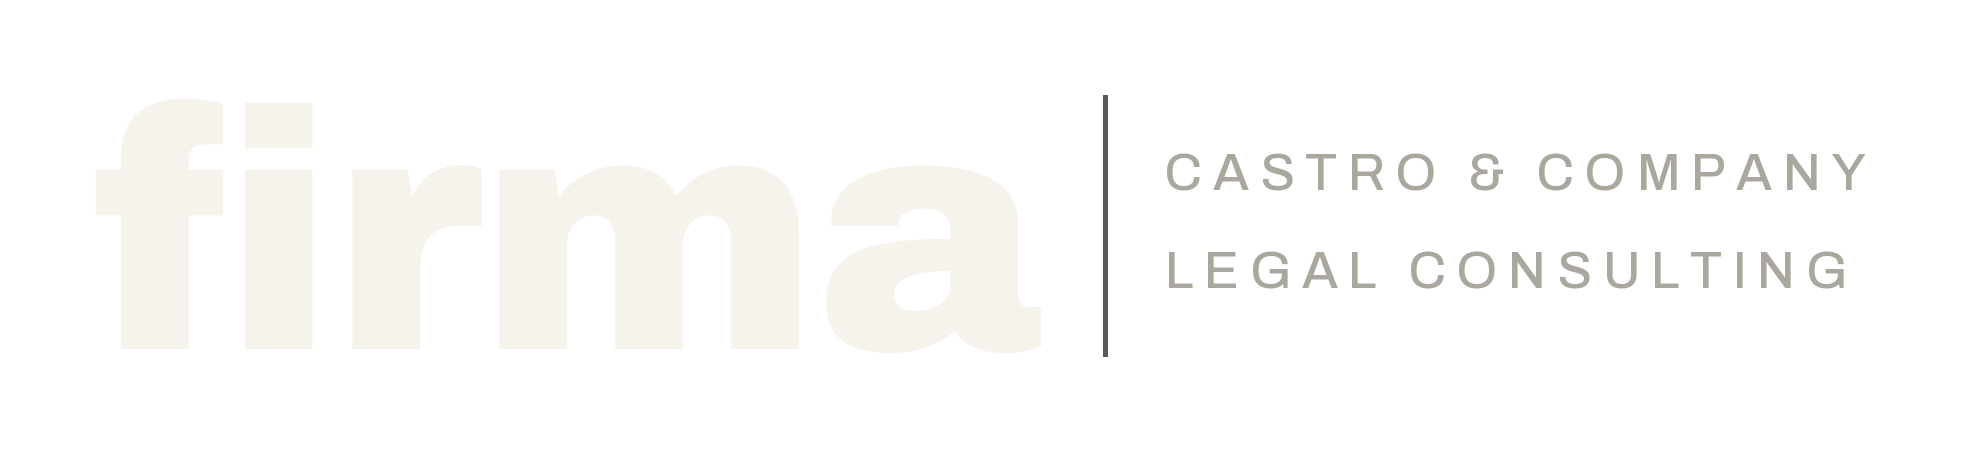
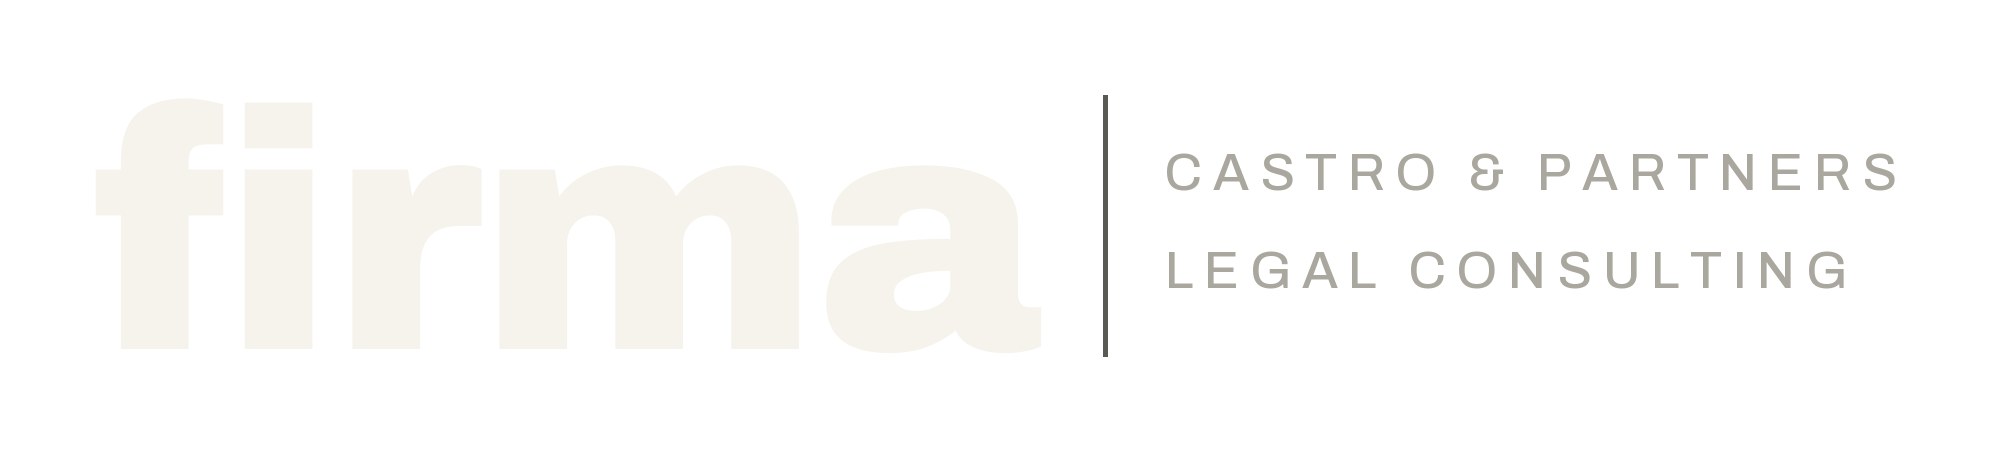
Reescribe la carta y suma links de clientes
- Carta a dueños de negocio: texto nuevo, cierre en Bitter y firma
  "Agustín Castro · Founder & Partner". El retrato queda sticky para que
  las dos columnas cierren parejas sin recortarlo de más.
- Logos actualizados (lockups y og): la bajada pasa a "Castro & Partners",
  se corrige el alt y se sincroniza public/og.png
- Links: Momentum Tank, E-com Project, Testo Boost y la cuenta nueva de
  Cocina Emprendedora. logo-s-verde.png pasa a testoboost.png

Changed region(s): [[0.5599, 0.3407, 0.9643, 0.4336], [0.5599, 0.5575, 0.9643, 0.6504]]

diff --git a/components/Letter.tsx b/components/Letter.tsx
@@ -9,42 +9,66 @@ const links = [
   { name: 'YouTube', href: 'https://www.youtube.com/@agusfcastro' },
 ];
 
+const body = [
+  'Antes de ser abogado tuve una agencia.',
+  'Vendí, cobré, perseguí pagos, armé equipos con amigos y desconocidos. Entregué trabajos y me quedé mirando el teléfono esperando esa transferencia que nunca llegó. Tuve clientes que desaparecieron después de recibir todo lo que pidieron, socios que se bajaron del barco y me apretaron con amenazas más de una vez. El problema nunca fue el dinero, sino la impotencia.',
+  'También aprendí algo menos obvio. Pensar en lo que puede salir mal es tan importante como pensar en lo que puede salir bien. Quebré.',
+  'En ese momento no entendí nada de esto. Los puntos no se conectan hacia adelante. Se conectan mirando para atrás, dándosela contra la pared.',
+  'Hoy, del otro lado del mostrador, lo veo todo más claro. Algunos dicen que lo que separa a los que llegan de los que quedan en el camino es la perseverancia. Aguantar el mes malo, el cliente que se va, la idea que no funcionó.',
+  'Pero los dos sabemos que no alcanza. Y por eso estás acá.',
+];
+
 export const Letter: React.FC = () => {
   return (
     <section id="quien" className="section rule">
-      <div className="wrap grid grid-cols-1 desk:grid-cols-[5fr_7fr] gap-8 desk:gap-16 items-start">
-        <Reveal>
-          <div className="relative aspect-[4/5] max-w-[420px] bg-carbon overflow-hidden">
-            <img
-              src={retrato}
-              alt="Agustín Castro"
-              className="w-full h-full object-cover object-top block"
-              style={{ filter: 'grayscale(1) contrast(1.05)' }}
-            />
+      <div className="wrap grid grid-cols-1 desk:grid-cols-[5fr_7fr] gap-8 desk:gap-16 items-stretch">
+        <Reveal className="h-full">
+          {/* La carta es larga: el retrato queda sticky para acompañarla sin
+              forzar un recorte vertical raro y que las columnas cierren parejas. */}
+          <div className="h-full">
+            <div className="desk:sticky desk:top-[132px] aspect-[4/5] max-w-[420px] bg-carbon overflow-hidden">
+              <img
+                src={retrato}
+                alt="Agustín Castro"
+                className="w-full h-full object-cover object-top block"
+                style={{ filter: 'grayscale(1) contrast(1.05)' }}
+              />
+            </div>
           </div>
         </Reveal>
 
         <Reveal delay={120}>
           <div className="flex flex-col gap-6">
             <p className="eyebrow text-piedra">Carta a dueños de negocio</p>
-            <h2 className="h2">Hola, soy Agustín Castro.</h2>
-            <p className="text-[17px] leading-[1.6] max-w-[52ch]">
-              Abogado (UBA) y docente universitario. Antes de ejercer construí una agencia de marketing y otros
-              proyectos propios. Sé lo que es cobrar tarde, perder un cliente por un malentendido y armar un equipo
-              sin saber qué papel firmarle a cada uno.
-            </p>
-            <p className="text-[17px] leading-[1.6] max-w-[52ch] text-piedra">
-              Por eso Firma piensa como los negocios que asesora: primero la operación, después el derecho. Lo que
-              enseño en el aula lo aplico en tu contrato, y lo que aprendí emprendiendo lo uso para que no repitas
-              mis errores.
-            </p>
+            <h2 className="h2">Querido dueño de negocio,</h2>
+
+            {body.map((paragraph, i) => (
+              <p
+                key={i}
+                className={`text-base leading-[1.65] max-w-[58ch] ${i === 0 ? '' : 'text-piedra'}`}
+              >
+                {paragraph}
+              </p>
+            ))}
+
             <p
-              className="font-heading font-bold leading-[1.3] max-w-[30ch]"
+              className="font-heading font-bold leading-[1.3] max-w-[34ch]"
               style={{ fontSize: 'clamp(20px,2.2vw,26px)' }}
             >
-              Construiste algo que vale la pena defender. Hagamos que crezca sin que nadie te lo pueda discutir.
+              Lo que construiste te costó demasiado como para dejarlo apoyado en la confianza.
             </p>
-            <p className="text-sm text-piedra">— Agustín</p>
+            <p
+              className="font-heading font-bold leading-[1.3]"
+              style={{ fontSize: 'clamp(20px,2.2vw,26px)' }}
+            >
+              Estás a una firma de distancia.
+            </p>
+
+            <div className="flex flex-col gap-1 text-sm text-piedra">
+              <span className="text-tinta font-medium">Agustín Castro</span>
+              <span>Founder &amp; Partner</span>
+            </div>
+
             <div className="flex flex-wrap gap-6">
               {links.map((link) => (
                 <a

diff --git a/components/Testimonials.tsx b/components/Testimonials.tsx
@@ -11,7 +11,7 @@ import cocinaEmprendedoraLogo from '../assets/clients/mono/cocinaempre.png';
 import ecomProjectLogo from '../assets/clients/mono/ecom-project.png';
 import momentumLogo from '../assets/clients/mono/momentum.png';
 import circulosLogo from '../assets/clients/mono/circulos.png';
-import logoSVerde from '../assets/clients/mono/logo-s-verde.png';
+import testoBoostLogo from '../assets/clients/mono/testoboost.png';
 
 interface Client {
   name: string;
@@ -27,11 +27,11 @@ const clients: Client[] = [
   { name: 'Real+', logo: realPlusLogo, url: 'https://www.instagram.com/alejo.growth/' },
   { name: 'Aumenta Tu Valor', logo: aumentaTuValorLogo, url: 'https://www.instagram.com/juanxcarrizo/' },
   { name: 'Nexus', logo: nexusLogo, url: 'https://www.instagram.com/facundoledesma.ok/' },
-  { name: 'Cocina Emprendedora', logo: cocinaEmprendedoraLogo, url: 'https://www.instagram.com/cocinaemprendedora.oficial/' },
-  { name: 'E-com Project', logo: ecomProjectLogo },
-  { name: 'Momentum', logo: momentumLogo },
+  { name: 'Cocina Emprendedora', logo: cocinaEmprendedoraLogo, url: 'https://www.instagram.com/cocinaemprendedora.arg/' },
+  { name: 'E-com Project', logo: ecomProjectLogo, url: 'https://ecom-project.com' },
+  { name: 'Momentum Tank', logo: momentumLogo, url: 'https://momentumtank.com' },
   { name: 'Círculos', logo: circulosLogo },
-  { name: 'Logo S', logo: logoSVerde },
+  { name: 'Testo Boost', logo: testoBoostLogo, url: 'https://testoboostoficial.com/' },
 ];
 
 // Tripled so the seam never appears even on very wide screens

diff --git a/components/Logo.tsx b/components/Logo.tsx
@@ -12,7 +12,7 @@ interface LogoProps {
 export const Logo: React.FC<LogoProps> = ({ variant = 'claro', className = '' }) => (
   <img
     src={variant === 'claro' ? lockupClaro : lockupOscuro}
-    alt="firma — Castro & Company / Legal Consulting"
+    alt="firma — Castro & Partners / Legal Consulting"
     className={`w-auto block object-contain ${className}`}
   />
 );
